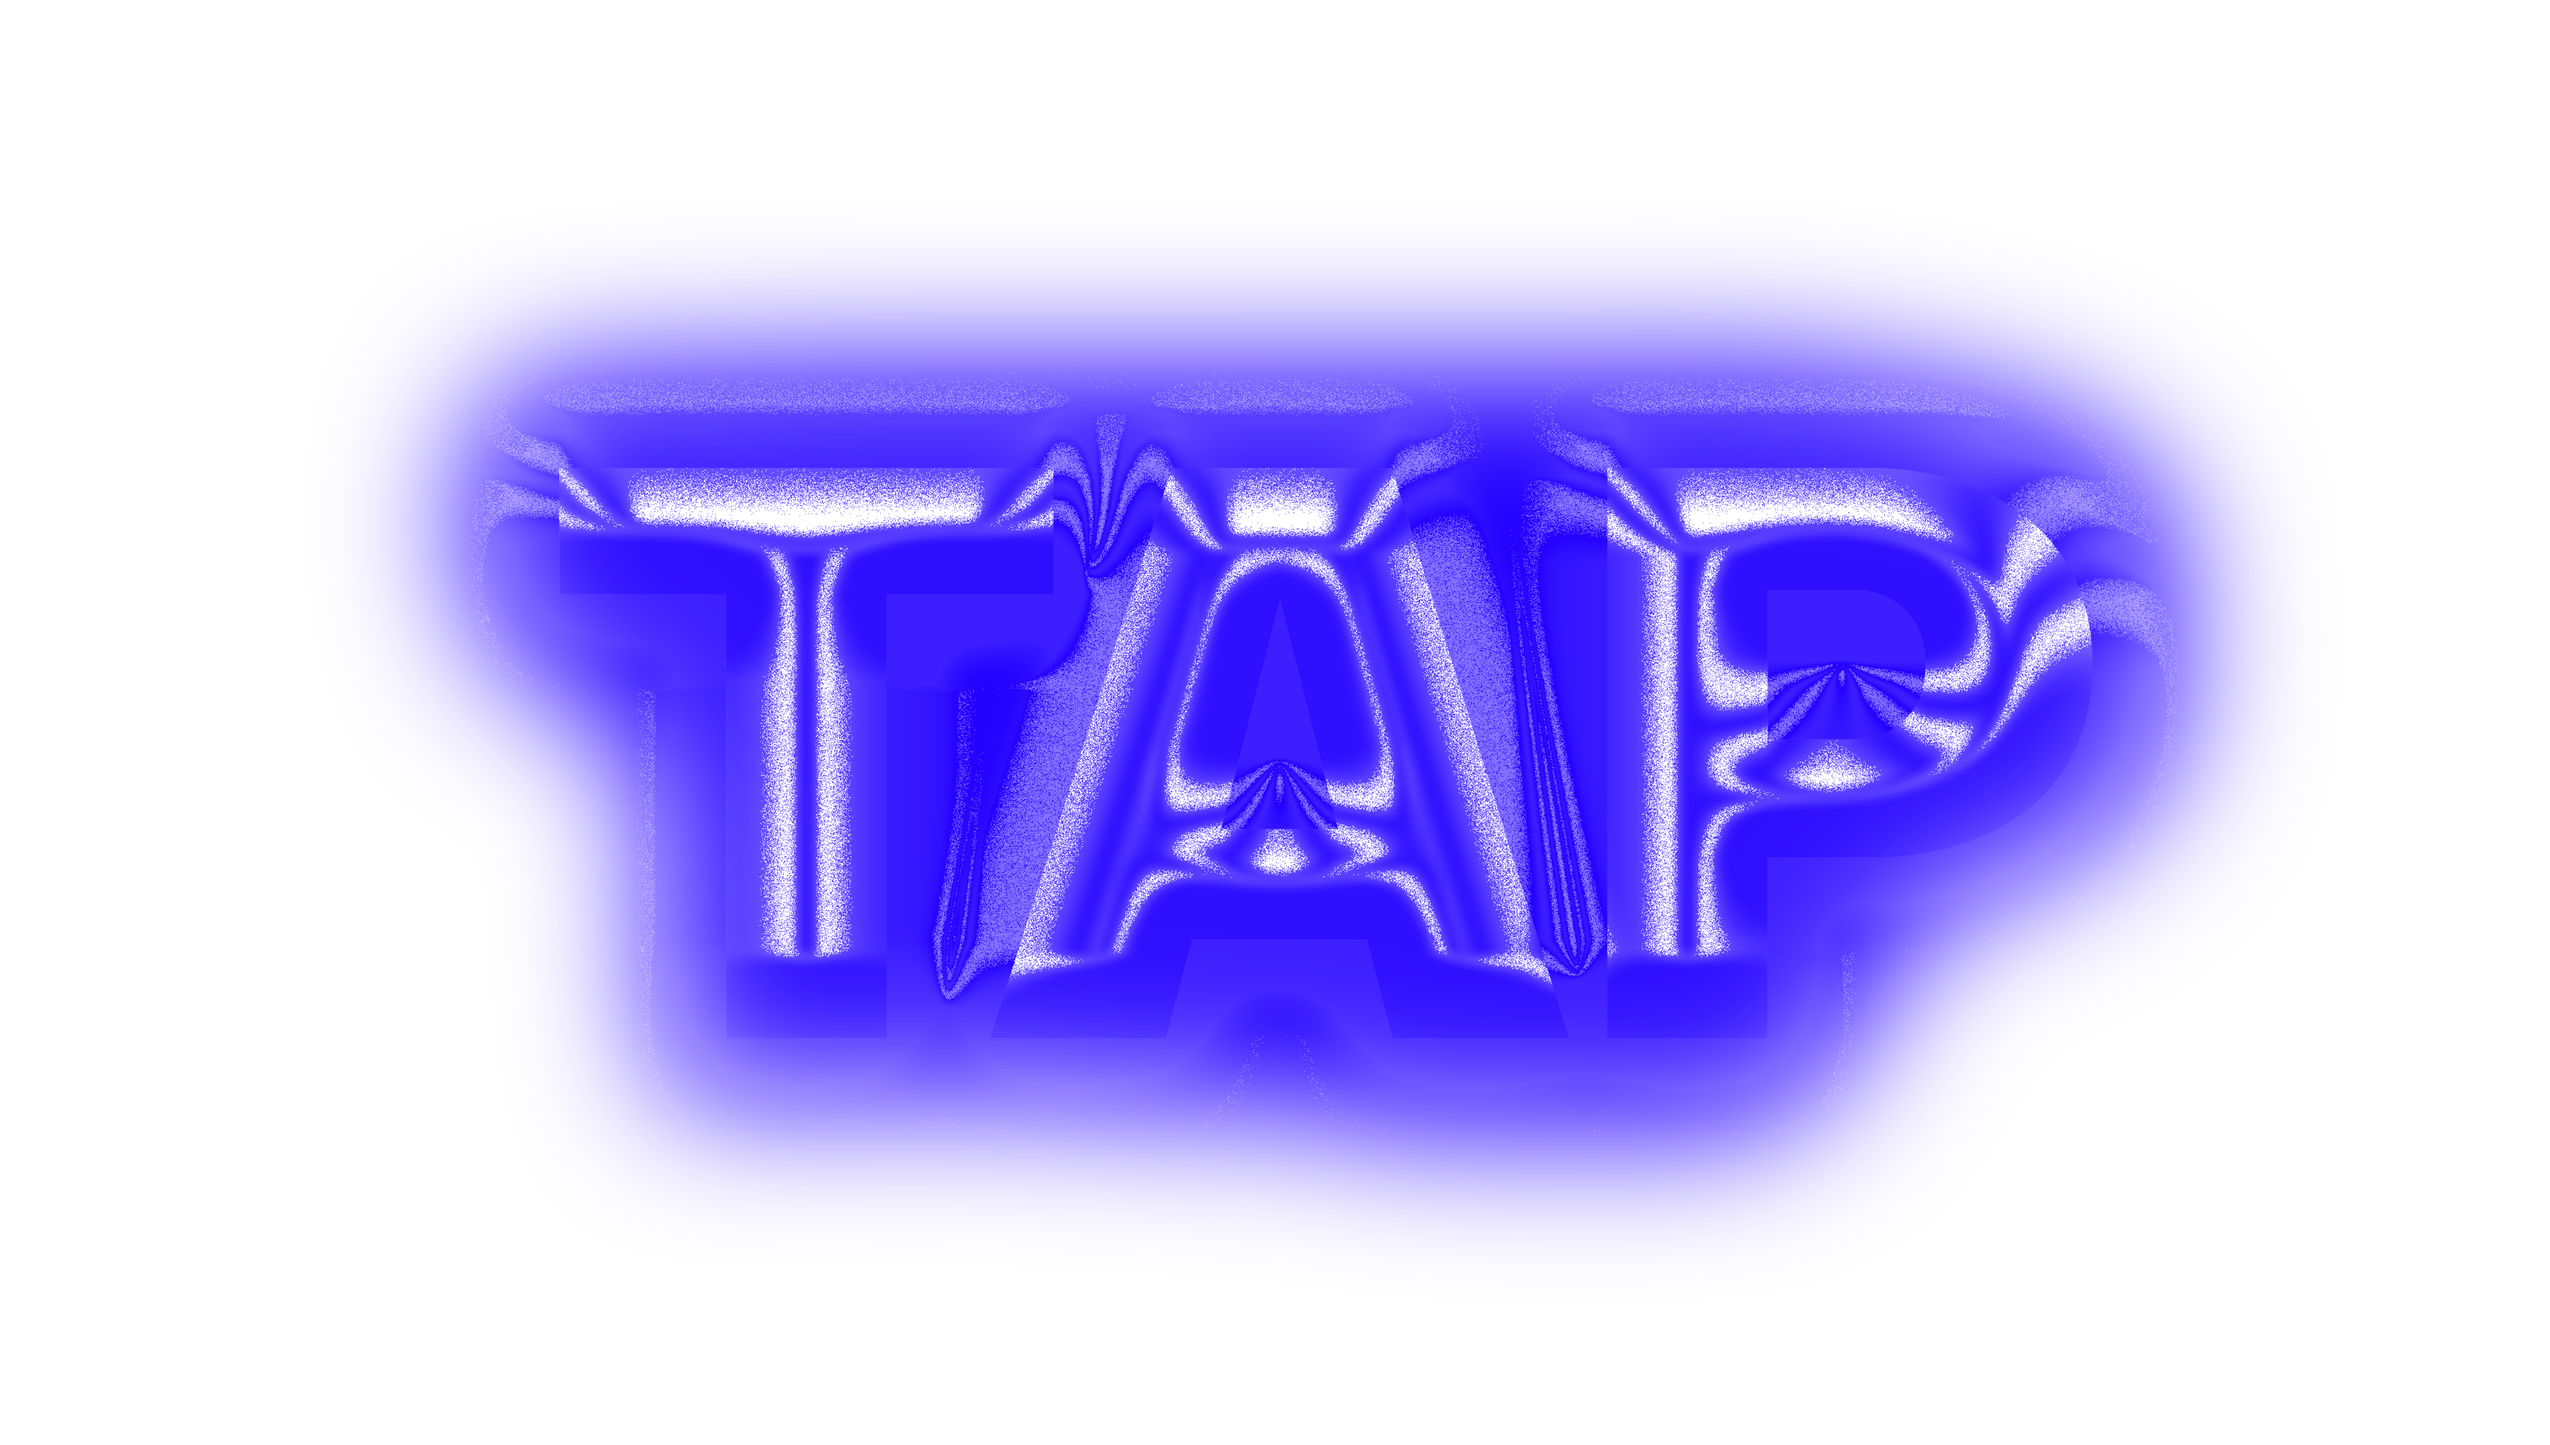
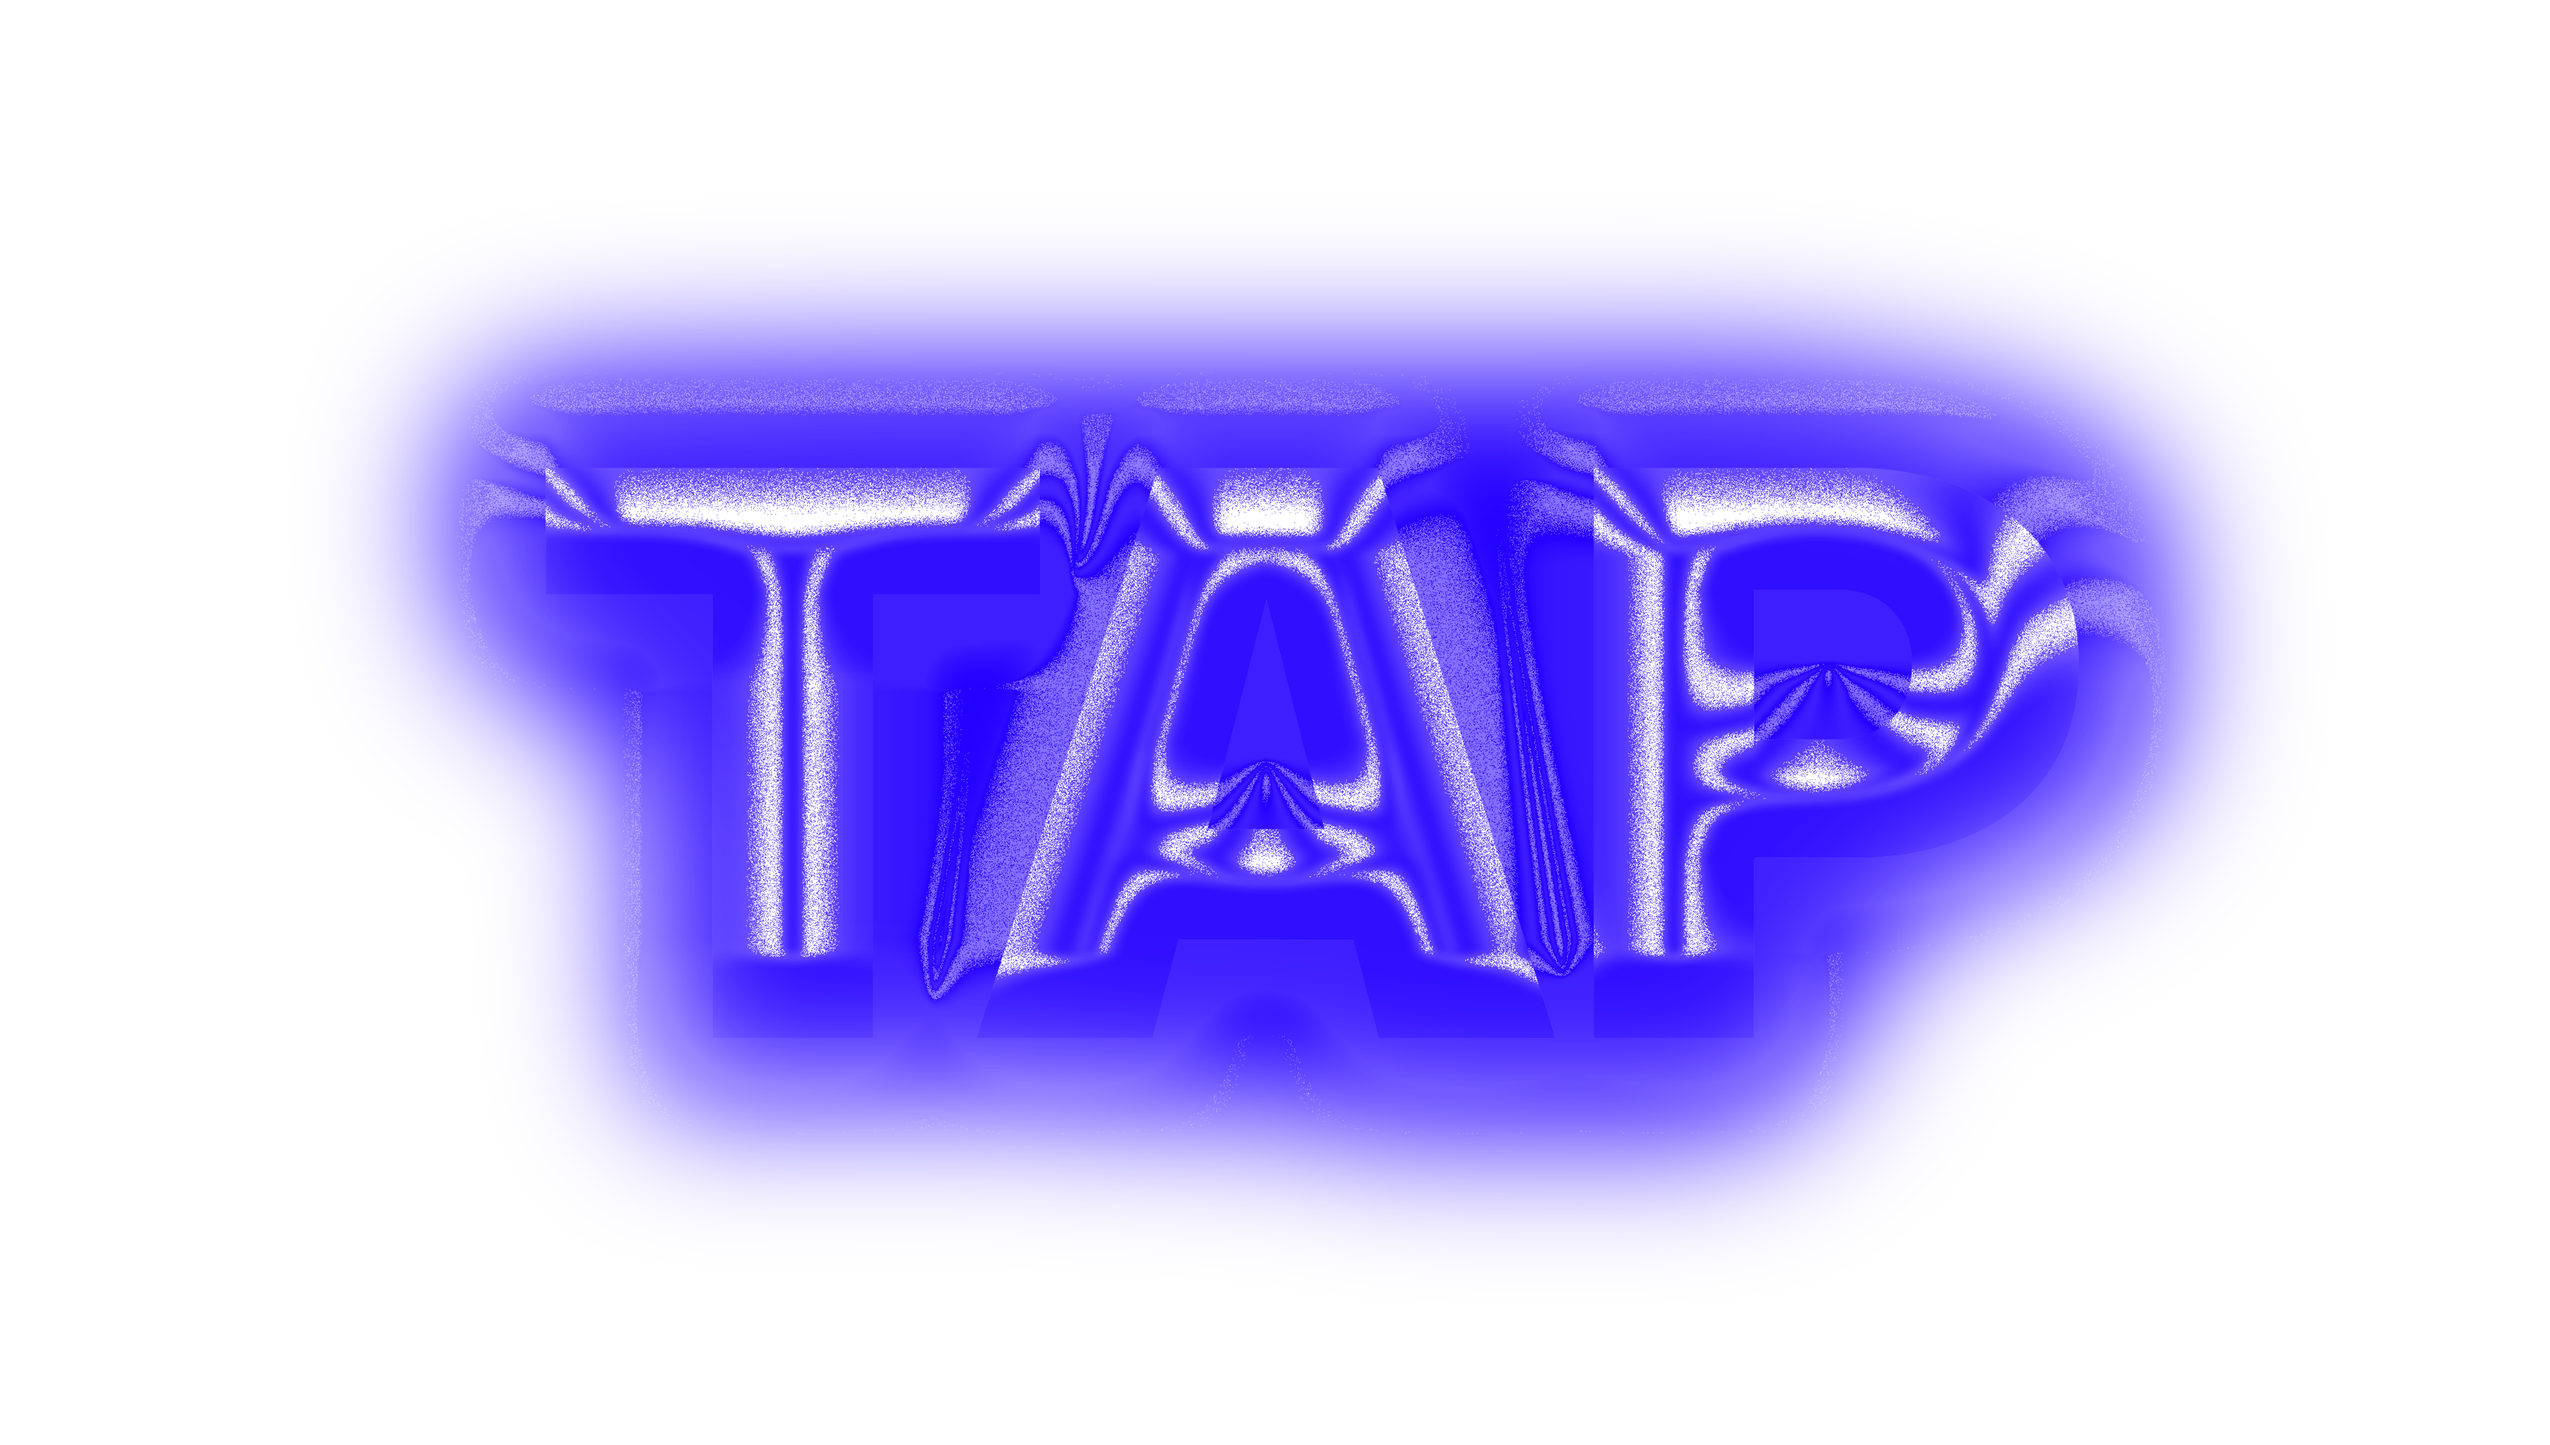
updates

Changed region(s): [[0.1867, 0.2478, 0.84, 0.6816]]

diff --git a/cursorcurser/script.js b/cursorcurser/script.js
@@ -1,38 +1,33 @@
-let myImages = ["fuck", "shit", "bitch", "ass"]
+let myImages = ["1.jpg", "2.jpg", "3.jpg"]
 
-document.querySelector("#id1").addEventListener('click', curse)
+document.addEventListener('click', curse)
 
 function curse() {
-	console.log("function")
-	// let randomImg = random(myImages)
-	let images = document.getElementsByTagName("IMG");
-	for(i = 0; i < images.length; i ++){
-		images[i].style.display = "none"
-	}
+	console.log("curse function")
 	let random = Math.floor(Math.random() * myImages.length);
-    if (random == 0) {
-            random = 1;
-    }
-    document.write('<img class="words" src="' + myImages [random] + '">');
-  	// let img = document.getElementById()
-  	// img.style.display="inline-block"
+    document.body.innerHTML = '<img class="words" src="' + myImages [random] + '">';
   }
 
 
-	if ('screen' in window && 'orientation' in screen) {
+if ('screen' in window && 'orientation' in screen) {
 		screen.orientation.addEventListener('change', rotate);
 		} 
-	else {
+else {
 		window.addEventListener('orientationchange', rotate);
 		}
+
 function rotate(event) {
 	document.querySelector("#id1").style.display = "none";
 	document.querySelector("#id2").style.display = "none";
 	document.querySelector(".tap").style.display = "block";
 }
 
-document.querySelector(".tap").addEventListener('click', flip)
+let mobileImages = ["a.jpg", "b.jpg", "c.jpg"]
+
+document.addEventListener('touchdown', flip)
 
 function flip() {
-	console.log("yuh")
+	console.log("flip function")
+	let random = Math.floor(Math.random() * mobileImages.length);
+    document.body.innerHTML = '<img class="words" src="' + mobileImages [random] + '">';
 }

diff --git a/cursorcurser/index.html b/cursorcurser/index.html
@@ -14,13 +14,19 @@
 	</center>
 
     <div class="words">
-        <img id="ass" src="./ass.jpg">
-        <img id="bitch" src="./bitch.jpg">
-        <img id="fuck" src="./fuck.jpg">
-        <img id="shit" src="./shit.jpg">
+        <img id="1" src="./1.jpg">
+        <img id="2" src="./2.jpg">
+        <img id="3" src="./3.jpg">
     </div>
-    <center>
+
+    <div class="flips">
+        <img id="a" src="./a.jpg">
+        <img id="b" src="./b.jpg">
+        <img id="c" src="./c.jpg">
+    </div>
+
+    <div class="center">
         <img class="tap" src="./tap.png">
-    </center>
+    </div>
 </body>
 </html>

diff --git a/cursorcurser/styles.css b/cursorcurser/styles.css
@@ -42,7 +42,20 @@ body{
 	display: none;
 }
 
+.flips{
+	position: absolute;
+	width:100%;
+}
+
+.flips img{
+	width:600px;
+	display: none;
+}
+
 .tap{
 	width:100%;
+	position:fixed;
+	top:-10%; 
+	left:-2%;
 	display: none;
 }
